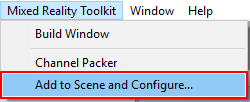
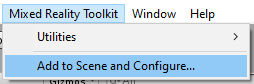
update documentation images to 2.2.0 ux, add package contents to getting started

diff --git a/Documentation/GettingStartedWithTheMRTK.md b/Documentation/GettingStartedWithTheMRTK.md
@@ -38,28 +38,121 @@ To get started with the Mixed Reality Toolkit you will need:
 1. Go to the <a href="https://github.com/Microsoft/MixedRealityToolkit-Unity/releases" target="_blank">MRTK release page</a>.
 1. Under Assets, download
     - **Microsoft.MixedRealityToolkit.Unity.Foundation.unitypackage**
-    - (Optional) Microsoft.MixedRealityToolkit.Unity.Extensions.unitypackage
-    - (Optional) Microsoft.MixedRealityToolkit.Unity.Tools.unitypackage
-    - (Optional) Microsoft.MixedRealityToolkit.Unity.Examples.unitypackage
+    - (**_Optional_**) Microsoft.MixedRealityToolkit.Unity.Extensions.unitypackage
+    - (**_Optional_**) Microsoft.MixedRealityToolkit.Unity.Tools.unitypackage
+    - (**_Optional_**) Microsoft.MixedRealityToolkit.Unity.Examples.unitypackage
+    - (**_Optional_**, **_Experimental_**) Microsoft.MixedRealityToolkit.Unity.Providers.UnityAR.unitypackage
 
 The Mixed Reality Toolkit is now available for download on NuGet.org, for details see [MRTK NuGet Packages](MRTKNuGetPackage.md).
+
+#### Package contents
+
+**Foundation**
+
+The Microsoft.MixedRealityToolkit.Unity.Foundation package includes the core components required to create a mixed reality application.
+
+| Folder | Component | Description |
+| --- | --- | --- |
+| MixedRealityToolkit | | Interface and type definitions, base classes, standard shader. |
+| MixedRealityToolkit.Providers | | |
+| | [ObjectMeshObserver](SpatialAwareness/SpatialObjectMeshObserver.md) | Spatial awareness observer using a 3D model as the data. |
+| | OpenVR | Support for OpenVR devices. |
+| | WindowsMixedReality | Support for Windows Mixed Reality devices, including Microsoft HoloLens and immersive headsets. |
+| | WindowsVoiceInput | Support for speech and dicatation on Microsoft Windows platforms. |
+| MixedRealityToolkit.SDK | | |
+| | Experimental | Experimental features, including shaders, user interface controls and individual system managers. |
+| | Features | Functionality that builds upon the Foundation package. |
+| | Profiles | Default profiles for the Microsoft Mixed Reality Toolkit systems and services. |
+| | StandardAssets | Common assets; models, textures, materials, etc. |
+| MixedRealityToolkit.Services | | |
+| | [BoundarySystem](Boundary/BoundarySystemGettingStarted.md) | System implementing VR boundary support. |
+| | [CameraSystem](CameraSystem/CameraSystemOverview.md) | System implementing camera configuration and management. |
+| | [DiagnosticsSystem](Diagnostics/DiagnosticsSystemGettingStarted.md) | System implementing in application diagnostics, for example a visual profiler. |
+| | [InputAnimation](InputSimulation/InputAnimationRecording.md) | Support for recording head movement and hand tracking data. |
+| | [InputSimulation](InputSimulation/InputSimulationService.md) | Support for in-editor simulation of hand and eye input. |
+| | [InputSystem](Input/Overview.md) | System providing support for accessing and handling user input. |
+| | [SceneSystem](SceneSystem/SceneSystemGettingStarted.md) | System providing multi-scene application support. |
+| | [SpatialAwarenessSystem](SpatialAwareness/SpatialAwarenessGettingStarted.md) | System providing support for awareness of the user's environment. |
+| | [TeleportSystem](TeleportSystem/Overview.md) | System providing support for telporting (moving about the experience in jumps). |
+
+**Extensions**
+
+The optional Microsoft.MixedRealityToolkit.Unity.Extensions package includes additional services that extend the functionality of the Microsoft Mixed Reality Toolkit.
+
+> [!Note]
+> The extensions package requires Microsoft.MixedRealityToolkit.Unity.Foundation.
+
+| Folder | Component | Description |
+| --- | --- | --- |
+| MixedRealityToolkit.Extensions | |
+| | LostTrackingService | Service that simplifies handing of tracking loss on Microsoft HoloLens devices. |
+| | [SceneTransitionService](Extensions/SceneTransitionService/SceneTransitionServiceOverview.md) | Service that simplifies adding smooth scene transitions. |
+
+
+**Tools**
+
+The optional Microsoft.MixedRealityToolkit.Unity.Tools package includes helpful tools that enhance the mixed reality development experience using the Microsoft Mixed Reality Toolkit.
+These tools are located in the **Mixed Reality Toolkit > Utilities** menu in the Unity Editor.
+
+> [!Note]
+> The tools package requires Microsoft.MixedRealityToolkit.Unity.Foundation.
+
+| Folder | Component | Description |
+| --- | --- | --- |
+| MixedRealityToolkit.Tools | |
+| | [DependencyWindow](Tools/DependencyWindow.md) | Tool that creates a dependency graph of assets in a project. |
+| | [ExtensionServiceCreator](Tools/ExtensionServiceCreationWizard.md) | Wizard to assist in creating extension services. |
+| | [OptimizeWindow](Tools/OptimizeWindow.md) | Utility to help automate configuring a mixed reality project for the best performance in Unity. |
+| | ReserializeAssetsUtility | Provides support for reserializing specific Unity files. |
+| | [RuntimeTools\Tools\ControllerMappingTool](Tools/ControllerMappingTool.md) | Utility enabling developers to quickly determine Unity mappings for hardware controllers. |
+| | ScreenshotUtility | Enables capturing application images in the Unity editor. |
+| | TextureCombinerWindow | Utility to combine graphics textures. |
+
+**Examples**
+
+The optional Microsoft.MixedRealityToolkit.Unity.Examples package includes demonstration projects that illustrate the features of the Microsoft Mixed Reality Toolkit.
+
+> [!Note]
+> The examples package requires Microsoft.MixedRealityToolkit.Unity.Foundation.
+
+| Folder | Component | Description |
+| --- | --- | --- |
+| MixedRealityToolkit.Examples | | |
+| | Demos | Simple scenes illustrating one or two related features. |
+| | Experimental | Demo scenes illustrating experimental features. |
+| | Inspectors | Unity Editor inspectors used by demo scenes. |
+| | StandardAssets | Common assets shared by multiple demo scenes. |
+
+**Providers.UnityAR**
+
+> [!Note]
+> The UnityAR package requires Microsoft.MixedRealityToolkit.Unity.Foundation.
+
+| Folder | Component | Description |
+| --- | --- | --- |
+| MixedRealityToolkit.Staging | | |
+| | [UnityAR](CameraSystem/UnityArCameraSettings.md) | Camera settings provider enabling MRTK use with mobile AR devices. |
 
 ### Import MRTK packages into your Unity project
 
 1. Create a new Unity project, or open an existing project. When creating a project, make sure to select "3D" as the template type.
 1. Import the **Microsoft.MixedRealityToolkit.Unity.Foundation.unitypackage** you downloaded by going into "Asset -> Import Package -> Custom Package", selecting the .unitypackage file, ensure all items to import are checked, and then selecting "Import".
-1. (Optional) Import the **Microsoft.MixedRealityToolkit.Unity.Examples.unitypackage** following the same steps as above. The examples package is optional and contains useful demonstration scenes for current MRTK features.
-1. (Optional) Import the **Microsoft.MixedRealityToolkit.Unity.Tools.unitypackage** following the same steps as for the foundation package. These tools package is optional and contains useful tools, such as the ExtensionServiceCreator, that enhance the MRTK developer experience.
-1. (Optional) Import the **Microsoft.MixedRealityToolkit.Unity.Extensions.unitypackage** following the same steps as for the foundation package. The extensions package provides a set of useful optional components for the MRTK.
+1. (**_Optional_**) Import the **Microsoft.MixedRealityToolkit.Unity.Examples.unitypackage** following the same steps as above. The examples package is optional and contains useful demonstration scenes for current MRTK features.
+1. (**_Optional_**) Import the **Microsoft.MixedRealityToolkit.Unity.Tools.unitypackage** following the same steps as for the foundation package. These tools package is optional and contains useful tools, such as the ExtensionServiceCreator, that enhance the MRTK developer experience.
+1. (**_Optional_**) Import the **Microsoft.MixedRealityToolkit.Unity.Extensions.unitypackage** following the same steps as for the foundation package. The extensions package provides a set of useful optional components for the MRTK.
+1. (**_Optional_**) Import the **Microsoft.MixedRealityToolkit.Unity.Providers.UnityAR.unitypackage** following the same steps as for the foundation package. This package provides support for mobile AR (phone, tablet) devices in the MRTK.
 
-After importing the Foundation package, you may see a setup prompt like the following:
+> [!Note]
+> Importing Microsoft.MixedRealityToolkit.Unity.Providers.UnityAR.unitypackage requires additional steps to be performed. For more information, please see the [UnityAR camera settings provider](CameraSystem/UnityArCameraSettings.md) article.
+
+After importing the Foundation package, you may see a prompt similar to the following:
 
 ![UnitySetupPrompt](../Documentation/Images/MRTK_UnitySetupPrompt.png)
 
 MRTK is attempting to set up your project for building Mixed Reality solutions by doing the following:
 
- * Enable XR Settings for your current platform (enabling the XR checkbox).
- * Force Text Serialization / Visible Meta files (recommended for Unity projects using source control).
+* Enable XR Settings for your current platform (enabling the XR checkbox).
+* Force Text Serialization / Visible Meta files (recommended for Unity projects using source control).
 
 Accepting these options is completely optional, but recommended.
 
@@ -90,15 +183,15 @@ To create a **HoloLens application**, switch to Universal Windows Platform:
 
 ![Configure to scene](../Documentation/Images/MRTK_ConfigureScene.png)
 
-4. You will see a prompt like this:
+4. In the Inspector, you will see a prompt like this:
 
-![MRTK Configure Dialog](../Documentation/Images/MRTK_ConfigureDialog.png)
+![MRTK Configure Dialog](../Documentation/Images/MRTK_NoProfileMessage.png)
 
 Click "OK".
 
-5. You will then be prompted to choose an MRTK Configuration profile. Double click "DefaultMixedRealityToolkitConfigurationProfile".
+5. Select "DefaultMixedRealityToolkitConfigurationProfile" from the list.
 
-![MRTK Select Configure Dialog](../Documentation/Images/MRTK_SelectConfigurationDialog.png)
+![MRTK Select Configure Dialog](../Documentation/Images/MRTK_SelectConfigurationProfile.png)
 
 For more information on profiles, please see the [profiles](Profiles/Profiles.md) article.
 
@@ -116,7 +209,7 @@ Which contains the following:
 * **MixedRealityPlayspace** - The parent object for the headset, which ensures the headset / controllers and other required systems are managed correctly in the scene.
 * The Main Camera is moved as a child to the Playspace - Which allows the playspace to manage the camera in conjunction with the SDKs
 
->[!NOTE] 
+>[!NOTE]
 > While working in your scene, **DO NOT move the Main Camera** (or the **MixedRealityPlayspace**) from the scene origin (0,0,0).  This is controlled by the MRTK and the active SDK. If you need to move the players start point, then **move the scene content and NOT the camera**!
 
 6. Hit play and test out hand simulation by pressing spacebar.
